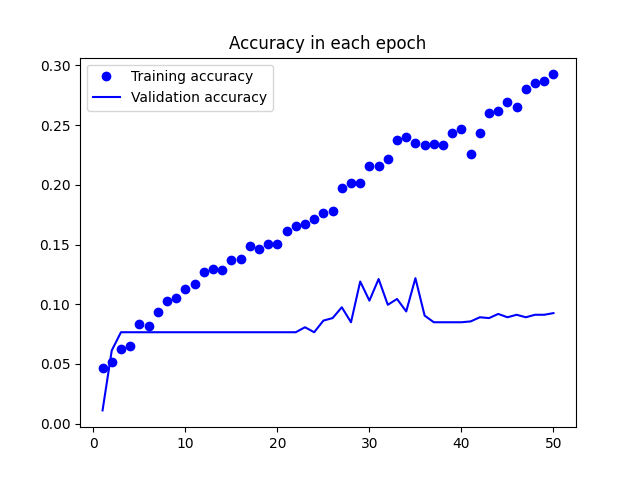
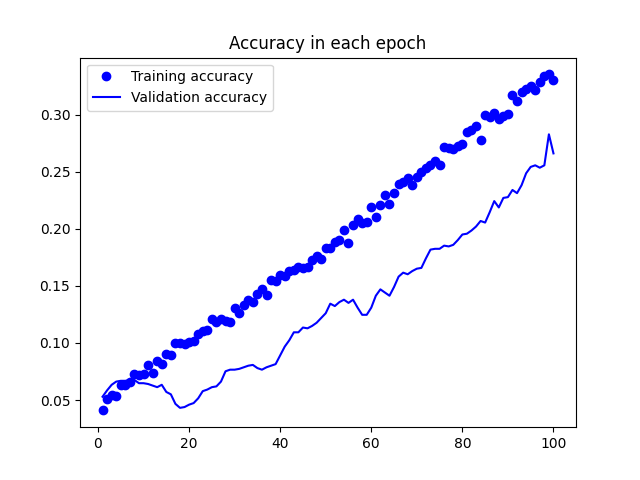
improvements to ResNet50

diff --git a/code/ena24_CNN_classification.py b/code/ena24_CNN_classification.py
@@ -1,0 +1,59 @@
+import numpy as np
+from sklearn.model_selection import train_test_split
+from tensorflow.keras import Sequential
+from tensorflow.keras.layers import Dense
+from tensorflow.keras.layers import Flatten
+from tensorflow.keras.layers import Dropout
+from tensorflow.keras.optimizers import Adam
+from numpy.random import seed
+from json import dump
+import tensorflow as tf
+
+seed(7)
+tf.random.set_seed(7)
+
+input = np.load("../all_images2_normalised.npy")
+output = np.load("../output2_normalised.npy")
+
+class_names = ["Bird", "Eastern Gray Squirrel", "Eastern Chipmunk", "Woodchuck", "Wild Turkey", 
+    "White_Tailed_Deer", "Virginia Opossum", "Eastern Cottontail", "null", "Vehicle", "Striped Skunk", 
+    "Red Fox", "Eastern Fox Squirrel", "Northern Raccoon", "Grey Fox", "Horse", "Dog", 
+    "American Crow", "Chicken", "Domestic Cat", "Coyote", "Bobcat", "American Black Bear"]
+
+input_train, input_test, output_train, output_test = train_test_split(input, output, test_size=0.2)
+print(input_train.shape, input_test.shape, output_train.shape, output_test.shape)
+
+input_shape = input_train.shape[1:]
+print(input_shape)
+
+n_output = 23
+
+input_train = input_train.astype('float32') / 255.0
+input_test = input_test.astype('float32') / 255.0
+
+model = Sequential()
+feature_extractor = tf.keras.applications.resnet50.ResNet50(include_top = False, input_shape=input_shape)
+for layer in feature_extractor.layers[:143]:
+    layer.trainable = False
+model.add(feature_extractor)
+model.add(Dropout(0.5))
+model.add(Flatten())
+model.add(Dense(256, activation='relu', kernel_initializer='he_uniform'))
+model.add(Dropout(0.4))
+model.add(Flatten())
+model.add(Dense(128, activation='relu', kernel_initializer='he_uniform'))
+model.add(Dropout(0.3))
+model.add(Flatten())
+model.add(Dense(50, activation='relu', kernel_initializer='he_uniform'))
+model.add(Dense(n_output, activation='softmax'))
+
+opt = Adam(learning_rate=0.000005)
+model.compile(optimizer=opt, loss='sparse_categorical_crossentropy', metrics=['accuracy'])
+
+callback_history = model.fit(input_train, output_train, epochs=100, batch_size=1500, validation_split=0.2)
+
+loss, acc = model.evaluate(input_test, output_test)
+print('Accuracy: %.3f' % acc)
+
+model.save('model9')
+dump(callback_history.history, open("callback_history9", "w"))

diff --git a/code/test_model.py b/code/test_model.py
@@ -14,7 +14,7 @@ tf.random.set_seed(7)
 
 input = np.load("../all_images2_normalised.npy")
 output = np.load("../output2_normalised.npy")
-model = keras.models.load_model('model7')
+model = keras.models.load_model('model9')
 
 class_names = ["Bird", "Eastern Gray Squirrel", "Eastern Chipmunk", "Woodchuck", "Wild Turkey", 
     "White_Tailed_Deer", "Virginia Opossum", "Eastern Cottontail", "Vehicle", "Striped Skunk", 
@@ -38,11 +38,11 @@ print('Accuracy: %.3f' % acc)
 ### training vs validation ###
 
 # loss & accuracy history from model training
-callback_history = load(open("callback_history7", "r"))
+callback_history = load(open("callback_history9", "r"))
 print(callback_history["loss"][0])
 
 # training vs validation loss
-epochs = np.arange(50)
+epochs = np.arange(100)
 epochs = epochs + 1
 loss = np.asarray(callback_history["loss"])
 val_loss = np.asarray(callback_history["val_loss"])
